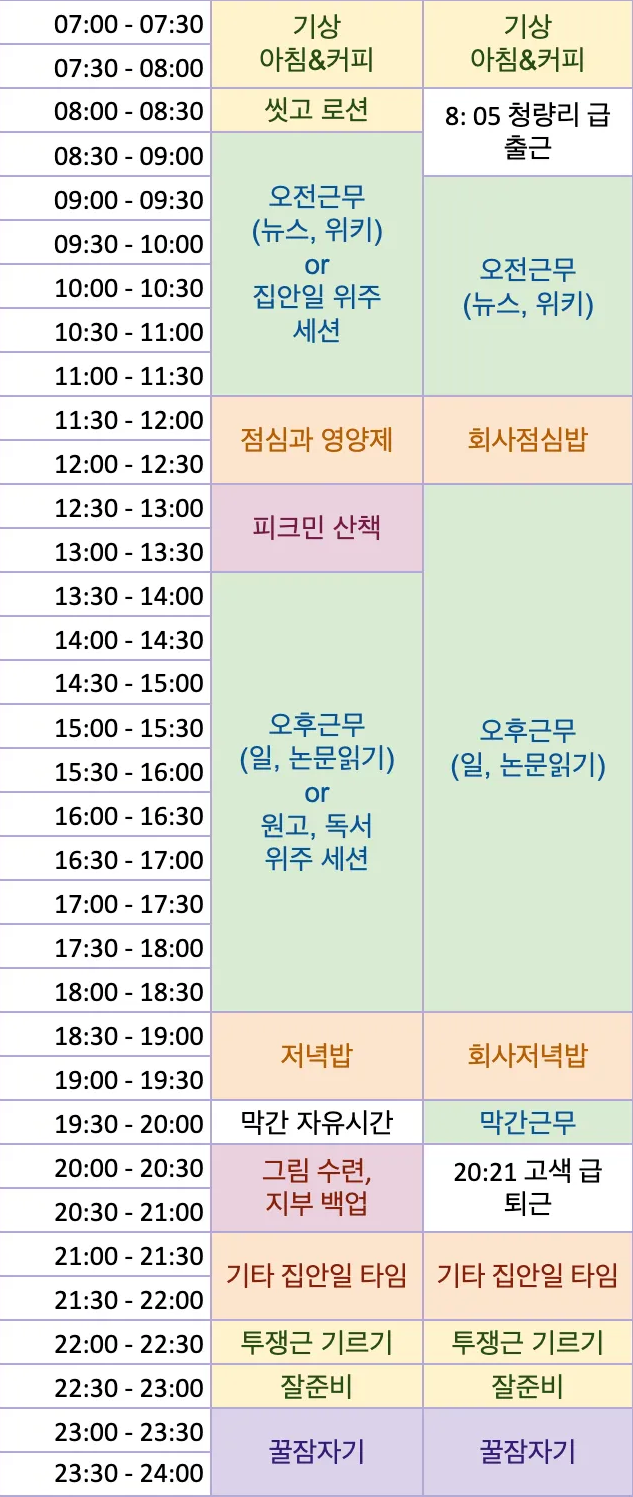
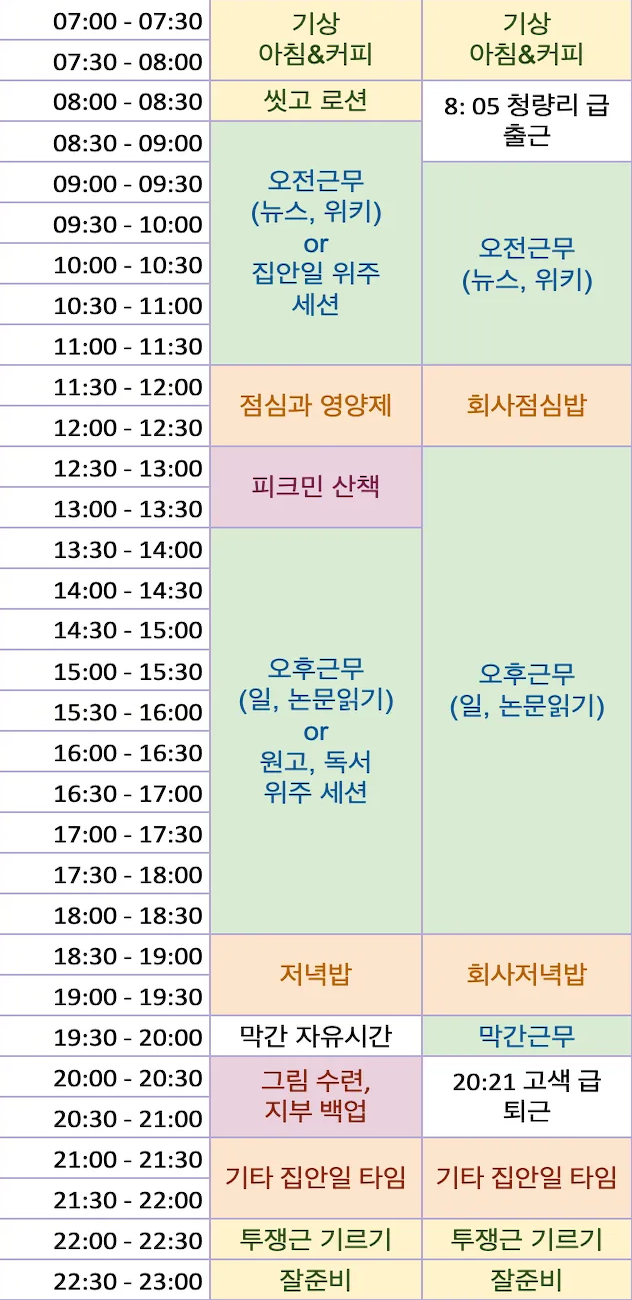
Feat: cut image more

diff --git a/script.js b/script.js
@@ -8,12 +8,13 @@ document.addEventListener("DOMContentLoaded", function() {
     function updateLinePosition() {
         const now = new Date();
         const AwakeTime = 7
+        const SleepTime = 23
         const startOfDay = new Date(now.getFullYear(), now.getMonth(), now.getDate());
         const SpendTimeAfterAwake = now - startOfDay - AwakeTime*60*60*1000;
         if (SpendTimeAfterAwake < 0) {
             SpendTimeAfterAwake = 0;
         }
-        const newYPosition = (SpendTimeAfterAwake / ((24-AwakeTime)*60*60*1000)) * img.clientHeight + img.offsetTop - 10;
+        const newYPosition = (SpendTimeAfterAwake / ((SleepTime-AwakeTime)*60*60*1000)) * img.clientHeight + img.offsetTop - 10;
         // console.log(img.offsetTop, img.clientHeight, newYPosition);
         line.style.top = `${newYPosition}px`;
     }
